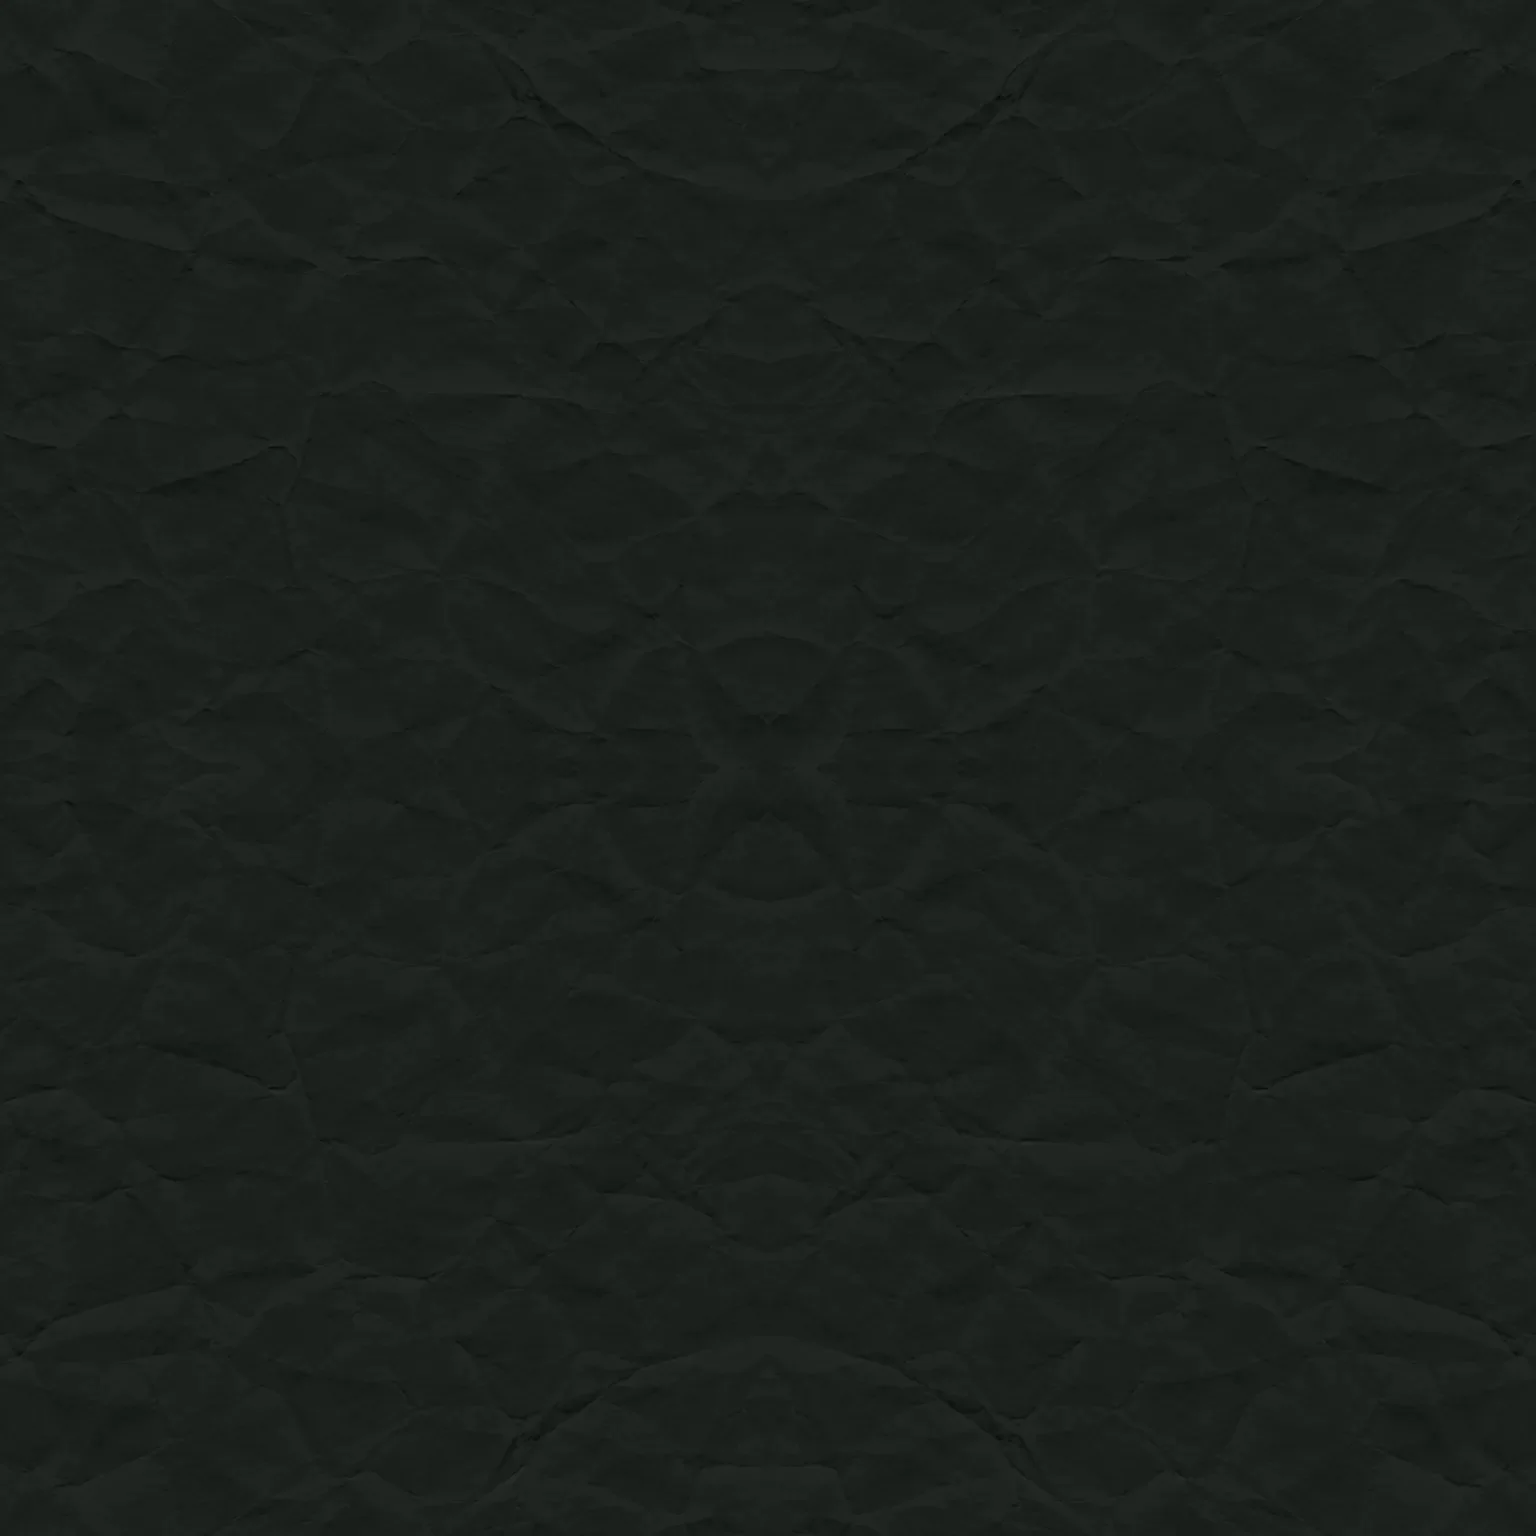
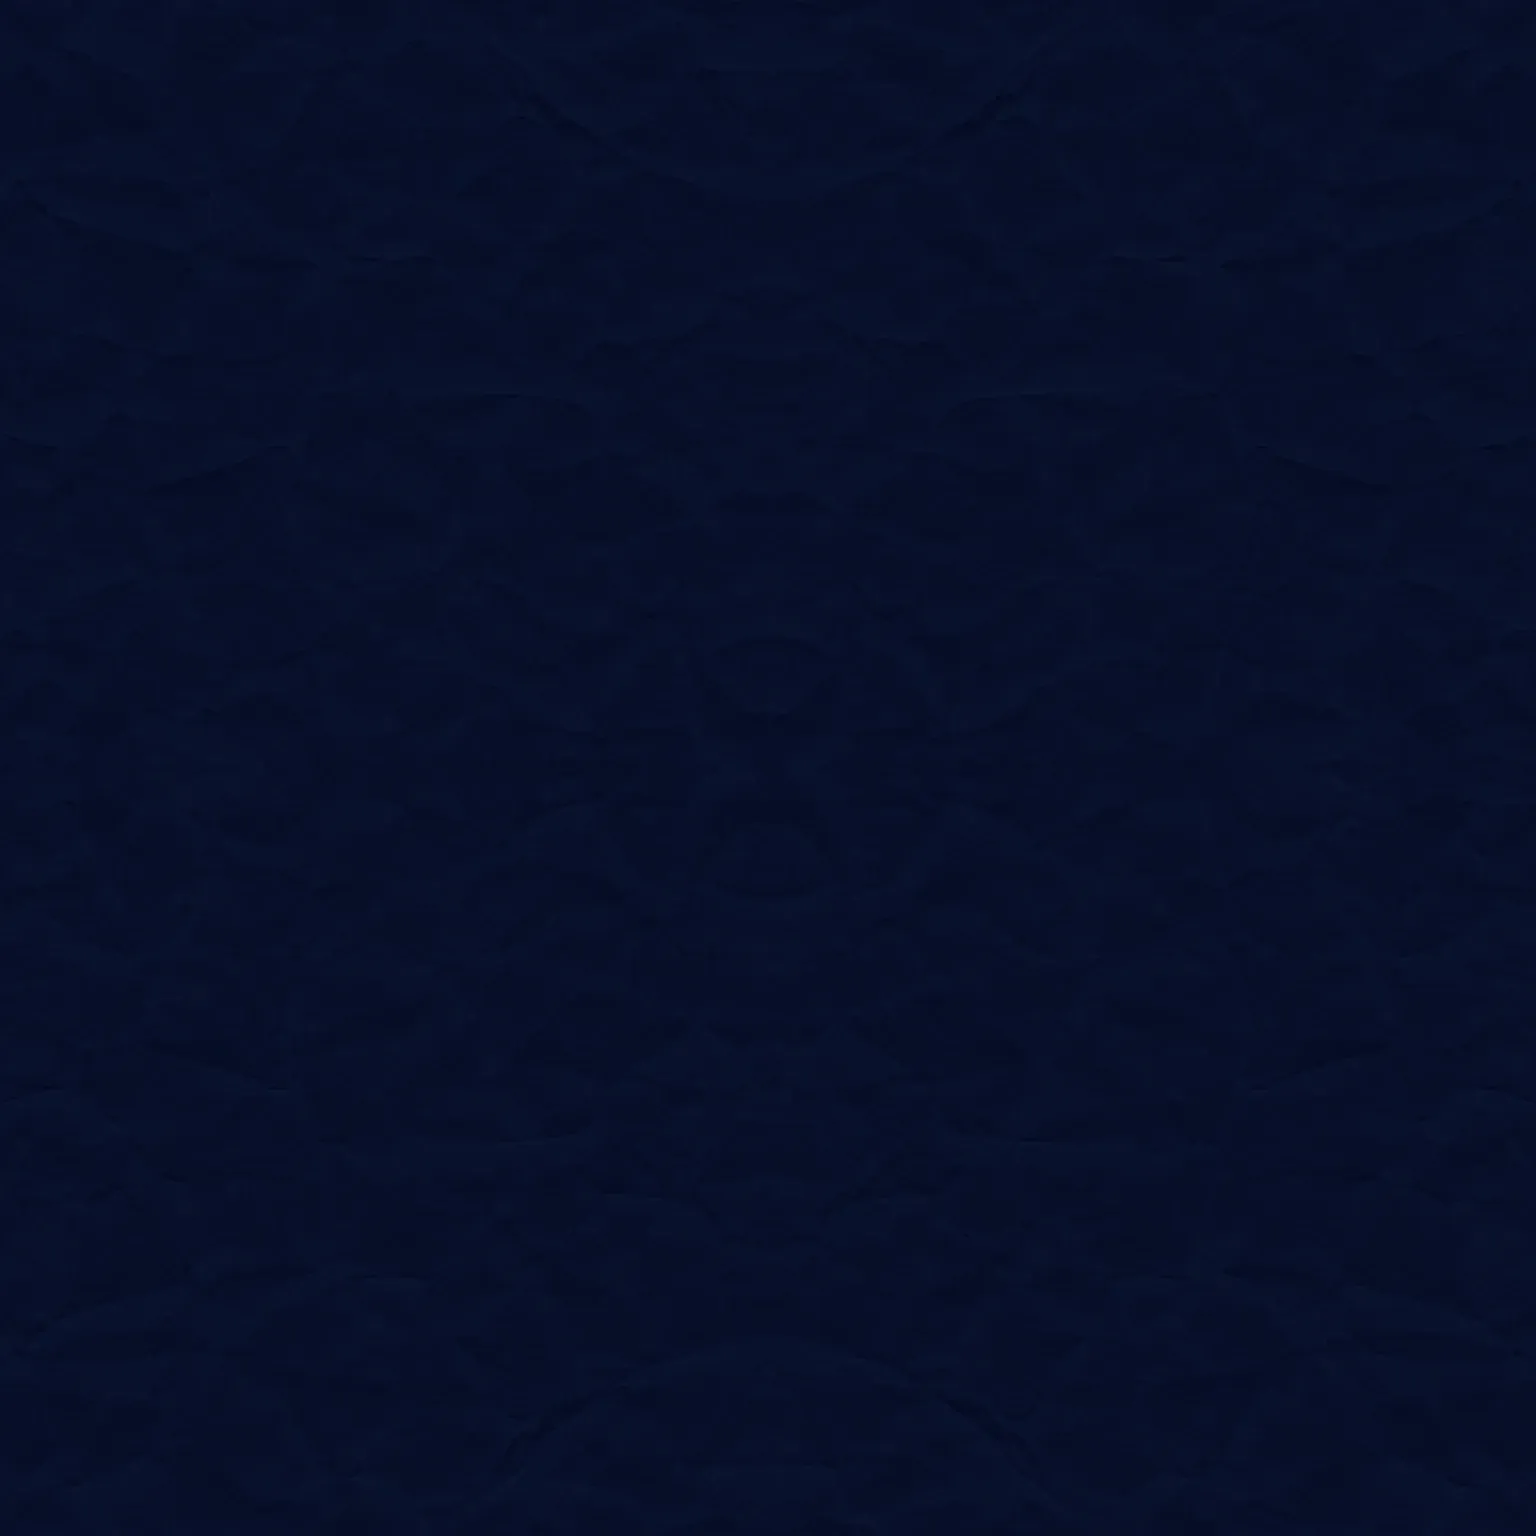
design changes

Changed region(s): [[0.625, 0.7188, 0.6562, 0.75], [0.5312, 0.0938, 0.5625, 0.125]]

diff --git a/index.html b/index.html
@@ -5,51 +5,61 @@
   <meta name="viewport" content="width=device-width, initial-scale=1">
   <meta name="description" content="Topi Data is building the world's largest neural databank, bringing together brain data from underrepresented demographics for a more complete understanding of the human mind.">
   <meta name="color-scheme" content="light dark">
-  <meta name="theme-color" content="#f4efdf" media="(prefers-color-scheme: light)">
-  <meta name="theme-color" content="#111713" media="(prefers-color-scheme: dark)">
+  <meta name="theme-color" content="#e7dbc4" media="(prefers-color-scheme: light)">
+  <meta name="theme-color" content="#070f28" media="(prefers-color-scheme: dark)">
   <title>Topi Data — Largest Neural Databank</title>
   <style>
     :root {
       color-scheme: light;
-      --paper: #f4efdf;
-      --ink: #302e28;
-      --muted: #5f574c;
-      --line: #d7cfbd;
-      --orange: #943d25;
-      --surface: #eae2d1;
-      --surface-line: #cbbfaa;
-      --selection: #eac5a8;
-      --brain-fill: #efe1c9;
+      --paper: #e7dbc4;
+      --ink: #202d56;
+      --muted: #505363;
+      --line: #c6b99f;
+      --accent: #234098;
+      --surface: #ded0b5;
+      --surface-line: #b9aa8b;
+      --selection: #c6cce3;
+      --brain-fill: #e8d9bb;
       --paper-texture: url("assets/crinkled-paper.webp");
+      --logo-filter: brightness(0) opacity(.85);
+      --brand: var(--ink);
     }
 
     @media (prefers-color-scheme: dark) {
       :root {
         color-scheme: dark;
-        --paper: #111713;
-        --ink: #f0eee6;
-        --muted: #b2b8ac;
-        --line: #39423b;
-        --orange: #ed956f;
-        --surface: #19211b;
-        --surface-line: #465047;
-        --selection: #77402d;
-        --brain-fill: #302b24;
-        --paper-texture: linear-gradient(rgb(0 0 0 / .28), rgb(0 0 0 / .28)), url("assets/crinkled-paper-dark.webp");
+        --paper: #070f28;
+        --ink: #f5eedf;
+        --muted: #b7c0dc;
+        --line: #24325c;
+        --accent: #edd7ad;
+        --surface: #0b1534;
+        --surface-line: #2a3a68;
+        --selection: #24386e;
+        --brain-fill: #101c42;
+        --paper-texture: url("assets/crinkled-paper-dark.webp");
+        --logo-filter: none;
+        --brand: var(--ink);
       }
+
+      header .wordmark { --brand: var(--ink); }
+      header .wordmark .brand-icon { filter: var(--logo-filter); }
     }
 
     * { box-sizing: border-box; }
     html { scroll-behavior: smooth; scroll-padding-top: 32px; }
     body { margin: 0; background: var(--paper); background-image: var(--paper-texture); background-size: 1536px 1536px; color: var(--ink); font-family: Arial, Helvetica, sans-serif; -webkit-font-smoothing: antialiased; }
     a { color: inherit; text-decoration: none; }
-    a:focus-visible { outline: 2px solid var(--orange); outline-offset: 7px; }
-    a:hover { color: var(--orange); }
+    a:focus-visible { outline: 2px solid var(--accent); outline-offset: 7px; }
+    a:hover { color: var(--accent); }
+    .wordmark, .wordmark:hover { color: var(--brand); }
     ::selection { background: var(--selection); color: var(--ink); }
     .wrap { width: min(1240px, calc(100% - 112px)); margin-inline: auto; }
     .eyebrow { margin: 0; font: 11px/1.6 "Courier New", monospace; letter-spacing: 1.6px; text-transform: uppercase; }
-    .wordmark { display: inline-flex; align-items: center; gap: 11px; font-size: 27px; font-weight: 700; letter-spacing: -1.5px; }
-    .brand-icon { width: 28px; height: 28px; color: var(--orange); }
+    .wordmark { display: inline-flex; align-items: center; gap: 11px; font-size: 27px; font-weight: 700; letter-spacing: -1.5px; color: var(--brand); }
+    .brand-icon { display: block; width: 44px; height: 48px; object-fit: contain; filter: var(--logo-filter); }
+    header .wordmark { --brand: #5c6b2e; }
+    header .wordmark .brand-icon { filter: brightness(0) saturate(100%) invert(38%) sepia(18%) saturate(900%) hue-rotate(42deg); }
     .skip-link { position: absolute; top: -100px; left: 24px; padding: 12px; background: var(--paper); z-index: 1; }
     .skip-link:focus { top: 12px; }
 
@@ -59,12 +69,12 @@
 
     .hero { display: grid; grid-template-columns: 1.05fr 1fr; align-items: center; gap: 16px; padding-block: 76px 64px; }
     .hero-copy { position: relative; z-index: 1; }
-    .hero .eyebrow { color: var(--orange); }
+    .hero .eyebrow { color: var(--accent); }
     h1 { margin: 29px 0 25px; font: normal clamp(60px, 6.8vw, 94px)/1.02 Georgia, "Times New Roman", serif; letter-spacing: -5px; }
     h1 span { display: block; }
     .intro { max-width: 390px; margin: 0; font-size: 20px; line-height: 1.6; }
-    .text-link { display: inline-flex; gap: 36px; align-items: center; margin-top: 32px; padding-bottom: 9px; border-bottom: 1px solid var(--orange); font-size: 13px; font-weight: 600; }
-    .text-link span { color: var(--orange); font-size: 20px; }
+    .text-link { display: inline-flex; gap: 36px; align-items: center; margin-top: 32px; padding-bottom: 9px; border-bottom: 1px solid var(--accent); font-size: 13px; font-weight: 600; }
+    .text-link span { color: var(--accent); font-size: 20px; }
     .brain-figure { margin: 0; min-width: 0; }
     .brain-figure svg { display: block; width: 100%; height: auto; }
     figcaption { display: flex; justify-content: space-between; gap: 16px; padding: 14px 18px 0; color: var(--muted); font: 10px/1.6 "Courier New", monospace; letter-spacing: .6px; }
@@ -85,12 +95,13 @@
     .approach-heading { display: flex; align-items: center; justify-content: space-between; gap: 24px; margin-bottom: 40px; }
     .approach-heading h2 { margin: 0; font: normal 33px/1.2 Georgia, "Times New Roman", serif; letter-spacing: -1px; }
     .steps { display: grid; grid-template-columns: repeat(3, 1fr); gap: 42px; padding: 0; margin: 0; list-style: none; }
-    .step-number { display: block; padding-bottom: 15px; margin-bottom: 23px; border-bottom: 1px solid var(--surface-line); color: var(--orange); font: 12px "Courier New", monospace; }
+    .step-number { display: block; padding-bottom: 15px; margin-bottom: 23px; border-bottom: 1px solid var(--surface-line); color: var(--accent); font: 12px "Courier New", monospace; }
     .steps h3 { margin: 0 0 13px; font-size: 16px; font-weight: 500; }
     .steps p { margin: 0; color: var(--muted); font-size: 14px; line-height: 1.75; }
 
     footer { display: flex; align-items: center; justify-content: space-between; gap: 24px; padding-block: 43px; margin-top: 40px; }
     footer .wordmark { font-size: 21px; }
+    footer .brand-icon { width: 32px; height: 34px; }
     footer p { color: var(--muted); font-size: 12px; }
     footer > a { font-size: 12px; }
 
@@ -112,7 +123,7 @@
       .wrap { width: calc(100% - 40px); }
       header { min-height: 82px; gap: 16px; }
       .wordmark { font-size: 23px; gap: 8px; }
-      .brand-icon { width: 23px; height: 23px; }
+      .brand-icon { width: 36px; height: 40px; }
       nav { gap: 19px; font-size: 12px; }
       nav a:last-child { display: none; }
       .hero { grid-template-columns: 1fr; gap: 35px; padding-block: 50px 34px; }
@@ -150,9 +161,7 @@
   <div class="wrap">
     <header>
       <a class="wordmark" href="#top" aria-label="Topi Data home">
-        <svg class="brand-icon" viewBox="0 0 28 28" fill="none" aria-hidden="true">
-          <path d="M2 15h5l3-9 5 17 4-12 3 4h4" stroke="currentColor" stroke-width="2.5" stroke-linecap="round" stroke-linejoin="round"/>
-        </svg>
+        <img class="brand-icon" src="assets/topilogowhite.png" alt="" width="1216" height="1293">
         topi data
       </a>
       <nav aria-label="Main navigation">
@@ -175,8 +184,8 @@
             <desc id="brain-description">A stylized overhead view of the brain, with two hemispheres, curved cortical folds, and a network of connected points. An illustration of neural data, not a measured brain scan.</desc>
             <defs>
               <g id="hemisphere">
-                <path d="M270 107C270 71 246 57 222 70C193 68 171 90 159 111C135 122 122 144 119 168C99 185 92 208 98 231C82 255 84 280 98 300C93 327 110 355 134 366C144 391 167 402 190 400C211 420 244 419 258 399C273 383 267 359 271 340C275 319 267 299 272 279C276 259 267 240 273 220C276 201 268 181 273 164C277 146 267 126 270 107Z" fill="var(--brain-fill)" stroke="var(--orange)" stroke-width="1.8"/>
-                <g fill="none" stroke="var(--orange)" stroke-width="1.3" stroke-linecap="round" opacity=".8">
+                <path d="M270 107C270 71 246 57 222 70C193 68 171 90 159 111C135 122 122 144 119 168C99 185 92 208 98 231C82 255 84 280 98 300C93 327 110 355 134 366C144 391 167 402 190 400C211 420 244 419 258 399C273 383 267 359 271 340C275 319 267 299 272 279C276 259 267 240 273 220C276 201 268 181 273 164C277 146 267 126 270 107Z" fill="var(--brain-fill)" stroke="var(--accent)" stroke-width="1.8"/>
+                <g fill="none" stroke="var(--accent)" stroke-width="1.3" stroke-linecap="round" opacity=".8">
                   <path d="M222 70C201 86 224 109 204 123C183 138 159 121 150 143C140 163 161 175 145 194C134 208 112 204 98 231"/>
                   <path d="M270 107C250 91 238 108 236 126C232 149 253 151 250 173C246 192 226 184 218 204C210 225 233 238 220 257"/>
                   <path d="M159 111C163 94 185 94 193 105M204 123C199 147 219 161 205 178C193 192 168 175 165 204C162 230 187 229 184 252"/>
@@ -194,12 +203,12 @@
             <use href="#hemisphere"/>
             <use href="#hemisphere" transform="translate(560 0) scale(-1 1)"/>
             <!-- An illustrative network, not measured neural connectivity. -->
-            <g fill="none" stroke="var(--orange)" stroke-width=".8" opacity=".4">
+            <g fill="none" stroke="var(--accent)" stroke-width=".8" opacity=".4">
               <path d="M224 88L193 146L246 161L214 215L151 184L193 146L158 123M151 184L111 239L173 276L214 215L246 161M111 239L128 314L173 276L225 309L214 215M128 314L179 365L225 309L244 388L179 365L173 276M128 314L225 309M193 146L214 215"/>
               <path d="M335 92L371 137L320 182L358 230L411 177L371 137L393 116M411 177L452 250L395 286L358 230L320 182M452 250L427 326L395 286L335 313L358 230M427 326L375 369L335 313L316 392L375 369L395 286M320 182L335 313M411 177L395 286"/>
               <path d="M246 161Q280 128 320 182M214 215Q280 259 358 230M225 309Q280 341 335 313" stroke-dasharray="3 5"/>
             </g>
-            <g fill="var(--orange)">
+            <g fill="var(--accent)">
               <circle cx="224" cy="88" r="3"/><circle cx="158" cy="123" r="2.5"/>
               <circle cx="193" cy="146" r="5"/><circle cx="246" cy="161" r="3.5"/>
               <circle cx="151" cy="184" r="4"/><circle cx="214" cy="215" r="5.5"/>
@@ -213,7 +222,7 @@
               <circle cx="427" cy="326" r="3.5"/><circle cx="335" cy="313" r="4"/>
               <circle cx="375" cy="369" r="4.5"/><circle cx="316" cy="392" r="3"/>
             </g>
-            <g fill="none" stroke="var(--orange)" stroke-width=".8" opacity=".5">
+            <g fill="none" stroke="var(--accent)" stroke-width=".8" opacity=".5">
               <circle cx="214" cy="215" r="11"/>
               <circle cx="358" cy="230" r="11"/>
               <circle cx="179" cy="365" r="10"/>
@@ -273,7 +282,10 @@
     </main>
 
     <footer>
-      <a class="wordmark" href="#top">topi data</a>
+      <a class="wordmark" href="#top" aria-label="Topi Data home">
+        <img class="brand-icon" src="assets/topilogowhite.png" alt="" width="1216" height="1293">
+        topi data
+      </a>
       <a href="#top">Back to top ↑</a>
     </footer>
   </div>
